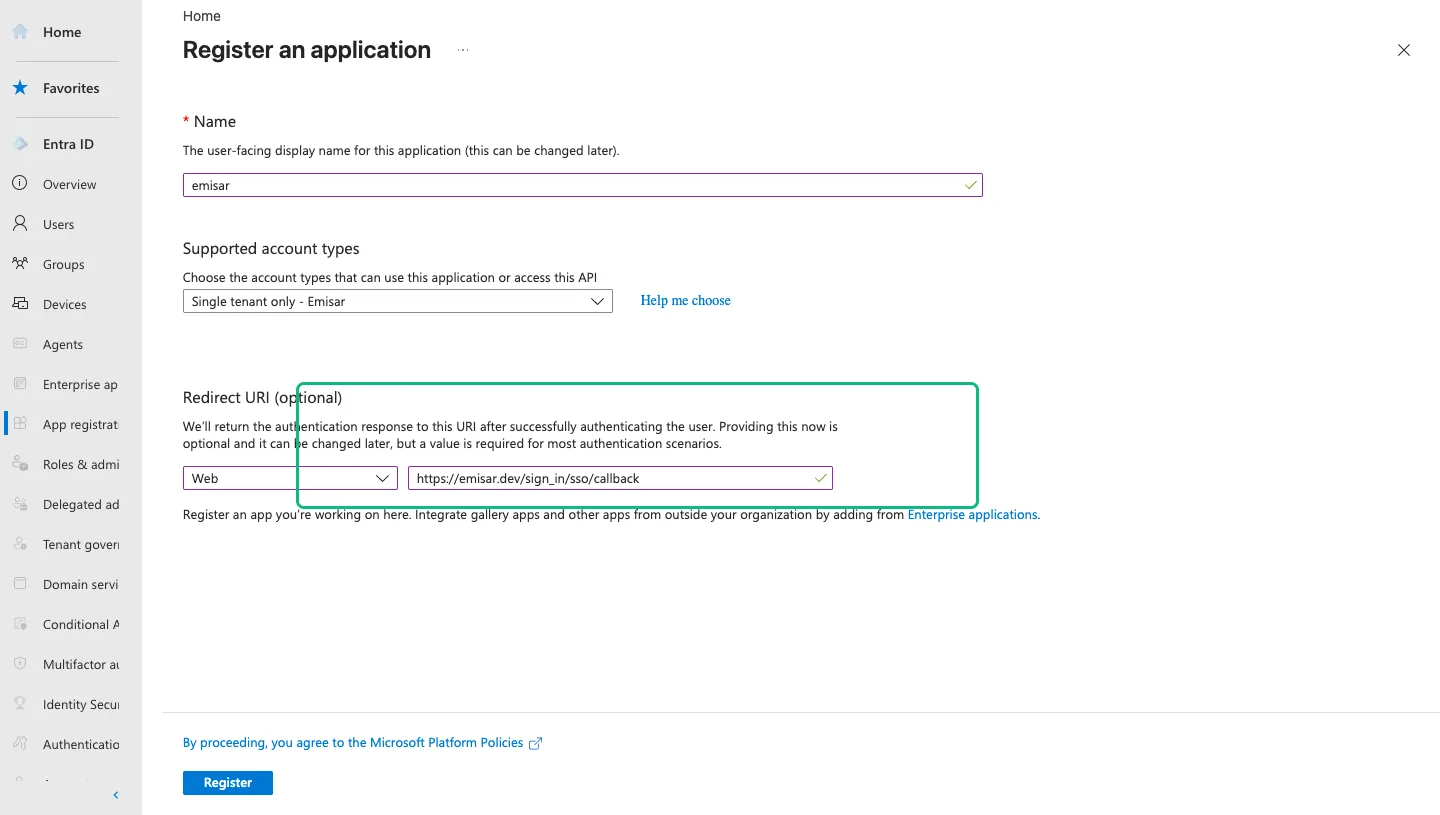
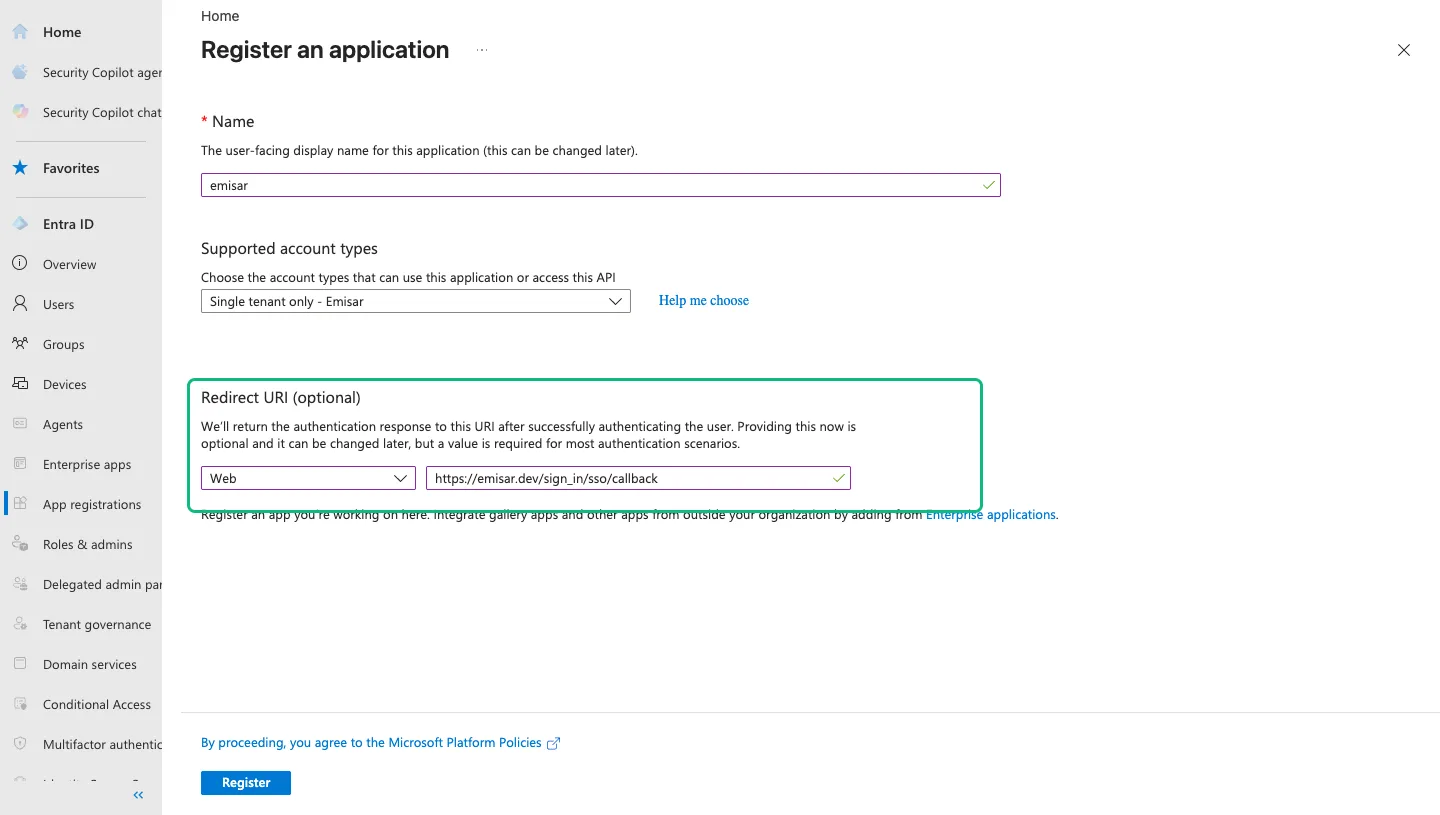
Fix provider screenshot framing
Coop-Task: 2026-08-25-fix-okta-entra-and-google-provider-screenshot-fr

diff --git a/tools/cmd/okta-capture/main.go b/tools/cmd/okta-capture/main.go
@@ -1690,7 +1690,8 @@ func highlightGroup(ctx context.Context, anchor, mustInclude string) error {
   const hits = [...document.querySelectorAll('*')]
     .filter(el => visible(el) && (el.textContent || '').includes(%q))
     .sort((a, b) => a.getElementsByTagName('*').length - b.getElementsByTagName('*').length);
-  let node = hits[0];
+  const anchorNode = hits[0];
+  let node = anchorNode;
   if (!node) return false;
   for (let up = 0; up < 10 && node; up++) {
     if ((node.textContent || '').includes(%q)) break;
@@ -1708,7 +1709,24 @@ func highlightGroup(ctx context.Context, anchor, mustInclude string) error {
     node = node.parentElement;
   }
   node.scrollIntoView({block: 'nearest'});
-  const box = node.getBoundingClientRect();
+  const companionNode = [...node.querySelectorAll('*')]
+    .filter(el => visible(el) && (el.textContent || '').includes(%q))
+    .sort((a, b) => a.getElementsByTagName('*').length - b.getElementsByTagName('*').length)[0];
+  const boxes = [node, anchorNode, companionNode]
+    .filter(Boolean)
+    .map(el => el.getBoundingClientRect())
+    .filter(box => box.width > 0 && box.height > 0);
+  const box = {
+    left: Math.min(...boxes.map(box => box.left)),
+    top: Math.min(...boxes.map(box => box.top)),
+    right: Math.max(...boxes.map(box => box.right)),
+    bottom: Math.max(...boxes.map(box => box.bottom))
+  };
+  box.width = box.right - box.left;
+  box.height = box.bottom - box.top;
+  // Okta paints the row label to the left of the flex box it reports. Include
+  // that overflow so the marker frames "Client ID", not only its input.
+  const paintedLeftOverflow = %q === 'Client ID' ? 48 : 0;
   // Paint the marker in a top-layer overlay rather than on the vendor node.
   // Okta inputs sit above their row background and used to erase the top edge
   // of an inset shadow. The overlay stays complete across inputs and buttons.
@@ -1716,10 +1734,10 @@ func highlightGroup(ctx context.Context, anchor, mustInclude string) error {
   ring.dataset.emisarDocsHighlight = 'true';
   Object.assign(ring.style, {
     position: 'fixed',
-    left: (box.left - 3) + 'px',
-    top: (box.top - 3) + 'px',
-    width: (box.width + 6) + 'px',
-    height: (box.height + 6) + 'px',
+    left: (box.left - paintedLeftOverflow - 8) + 'px',
+    top: (box.top - 8) + 'px',
+    width: (box.width + paintedLeftOverflow + 16) + 'px',
+    height: (box.height + 16) + 'px',
     border: '3px solid #10b981',
     borderRadius: '8px',
     boxSizing: 'border-box',
@@ -1729,7 +1747,7 @@ func highlightGroup(ctx context.Context, anchor, mustInclude string) error {
   document.body.appendChild(ring);
   return node.tagName + ' display=' + getComputedStyle(node).display +
     ' ' + Math.round(box.width) + 'x' + Math.round(box.height);
-})()`, anchor, mustInclude)
+})()`, anchor, mustInclude, mustInclude, anchor)
 	var marked string
 	if err := chromedp.Run(ctx, chromedp.Evaluate(script, &marked)); err != nil {
 		return err

diff --git a/tools/cmd/google-capture/main.go b/tools/cmd/google-capture/main.go
@@ -1541,16 +1541,21 @@ func capture(ctx context.Context, env map[string]string, outDir, name string, ma
 		return idpcapture.ScreenshotElement(ctx, outDir, name+"-docs", "[data-emisar-docs-google-credentials=true]")
 	}
 	height := 900
+	width := 1155
 	if name == "google-02-audience" || name == "google-06-clients" {
 		height = 360
 	}
-	if err := markGoogleDocsPanel(ctx, height); err != nil {
+	if name == "google-07-web-application" {
+		width = 550
+		height = 790
+	}
+	if err := markGoogleDocsPanel(ctx, width, height); err != nil {
 		return err
 	}
 	return idpcapture.ScreenshotElement(ctx, outDir, name+"-docs", "[data-emisar-docs-google-panel=true]")
 }
 
-func markGoogleDocsPanel(ctx context.Context, height int) error {
+func markGoogleDocsPanel(ctx context.Context, width, height int) error {
 	script := fmt.Sprintf(`(() => {
   const gemini = [...document.querySelectorAll('*')]
     .filter(el => (el.textContent || '').trim().startsWith('Try agentic Gemini CLI in Cloud Shell'))
@@ -1562,12 +1567,12 @@ func markGoogleDocsPanel(ctx context.Context, height int) error {
   const crop = document.createElement('div');
   crop.dataset.emisarDocsGooglePanel = 'true';
   Object.assign(crop.style, {
-    position: 'fixed', left: '285px', top: '85px', width: '1155px', height: '%dpx',
+    position: 'fixed', left: '285px', top: '85px', width: '%dpx', height: '%dpx',
     pointerEvents: 'none', zIndex: '2147483647'
   });
   document.body.appendChild(crop);
   return true;
-})()`, height)
+})()`, width, height)
 	var marked bool
 	if err := chromedp.Run(ctx, chromedp.Evaluate(script, &marked)); err != nil {
 		return err

diff --git a/tools/cmd/entra-capture/main.go b/tools/cmd/entra-capture/main.go
@@ -341,14 +341,25 @@ func highlightRegistrationGroup(ctx context.Context) error {
     const box = node.getBoundingClientRect();
     if (node.contains(uri) && box.width >= 600 && box.height >= 80 && box.height <= 180) {
       node.scrollIntoView({block: 'center'});
-      const current = node.getBoundingClientRect();
+      const boxes = [node.getBoundingClientRect(), uri.getBoundingClientRect()];
+      const current = {
+        left: Math.min(...boxes.map(box => box.left)),
+        top: Math.min(...boxes.map(box => box.top)),
+        right: Math.max(...boxes.map(box => box.right)),
+        bottom: Math.max(...boxes.map(box => box.bottom))
+      };
+      current.width = current.right - current.left;
+      current.height = current.bottom - current.top;
+      // At this fixed capture viewport Entra paints the heading and platform
+      // selector 105px left of the CSS box it reports for their group.
+      const paintedLeftOverflow = 105;
       const ring = document.createElement('div');
       Object.assign(ring.style, {
-        position: 'absolute',
-        left: (current.left + window.scrollX - 4) + 'px',
-        top: (current.top + window.scrollY - 4) + 'px',
-        width: (current.width + 8) + 'px',
-        height: (current.height + 8) + 'px',
+        position: 'fixed',
+        left: (current.left - paintedLeftOverflow - 8) + 'px',
+        top: (current.top - 8) + 'px',
+        width: (current.width + paintedLeftOverflow + 16) + 'px',
+        height: (current.height + 16) + 'px',
         border: '3px solid #10b981',
         borderRadius: '8px',
         boxSizing: 'border-box',
